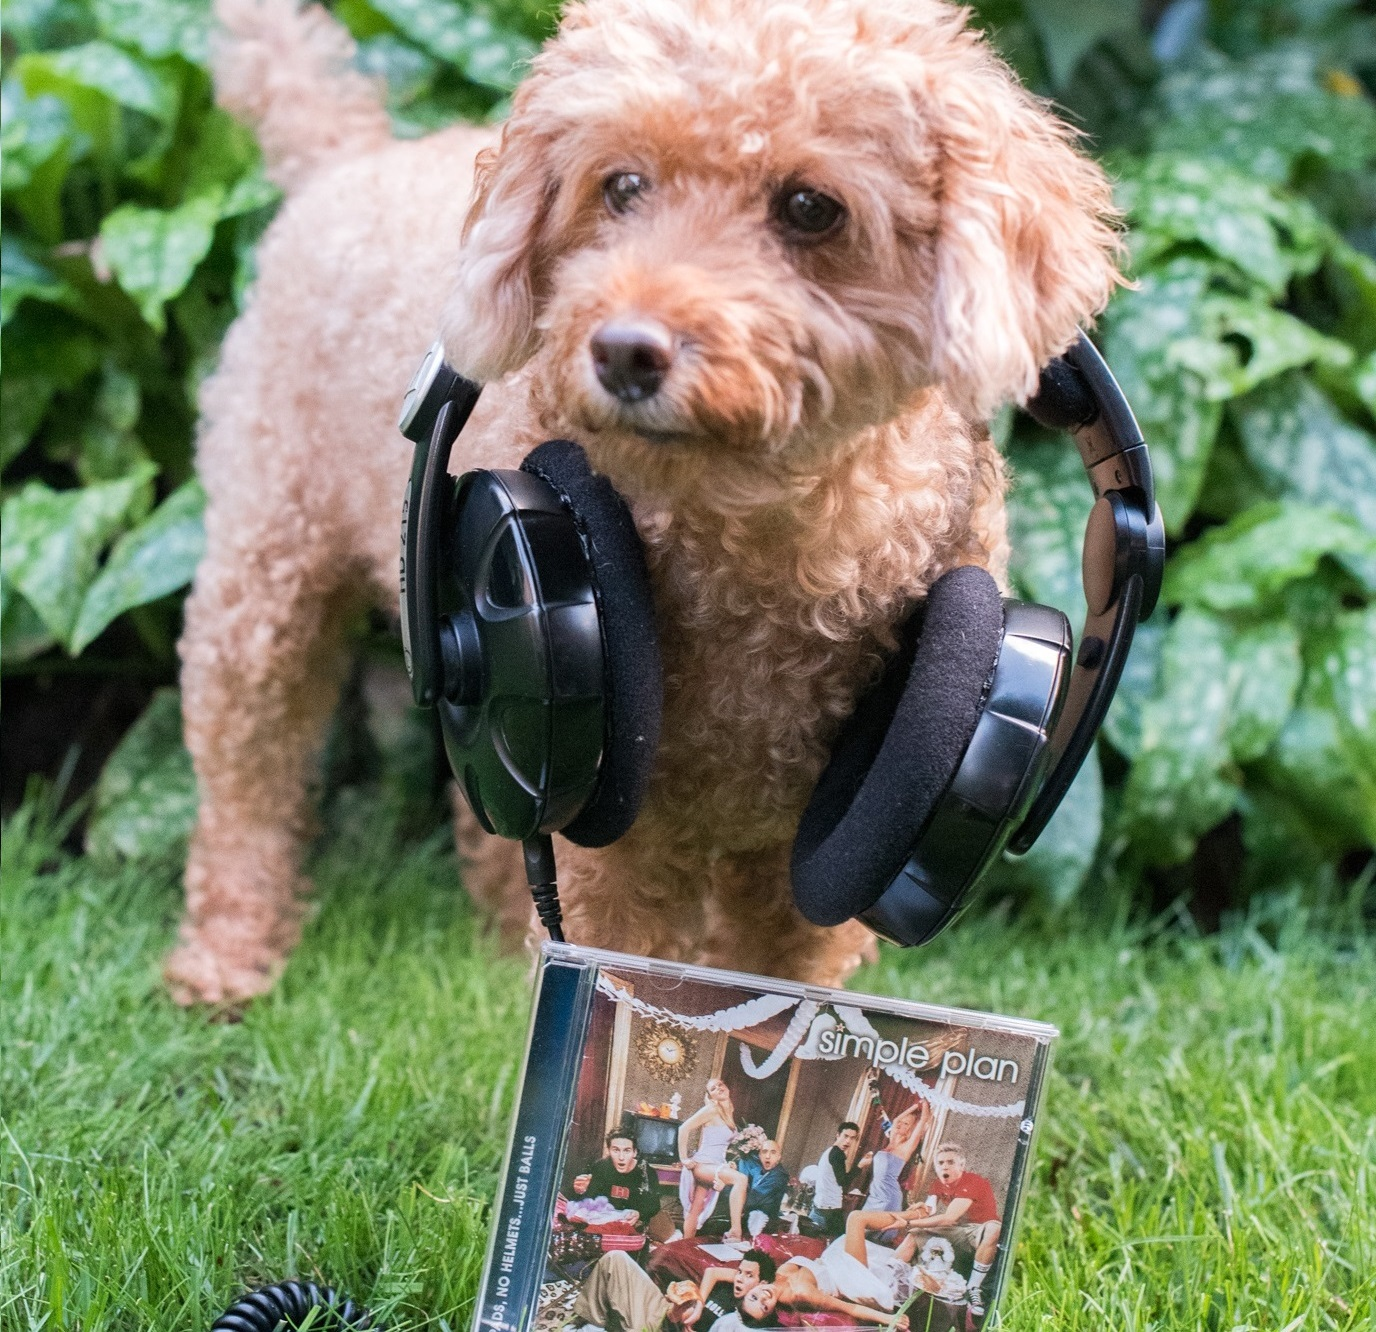
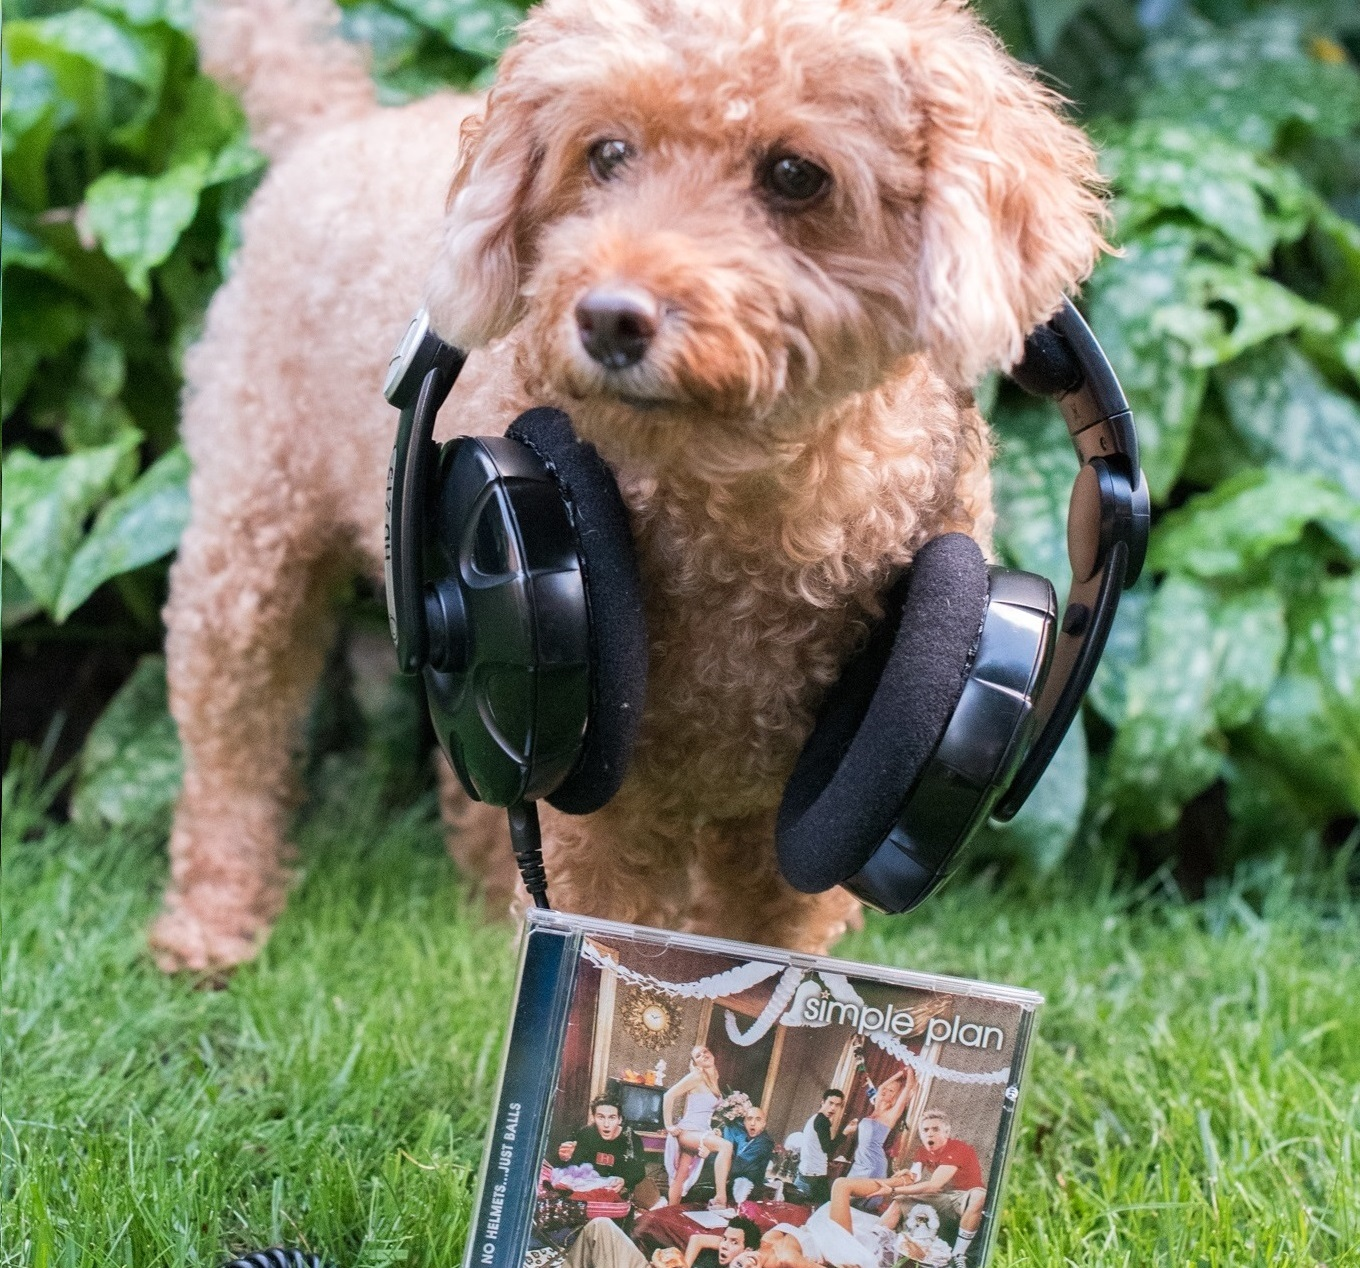
minor changes to html, more code cleanup

diff --git a/styles/style.css b/styles/style.css
@@ -184,18 +184,46 @@ h1,
 h2 {
   font-family: "Metal Mania";
   color: whitesmoke;
-  text-shadow: 1px 1px black, 3px 3px #DD0000;
-  padding: 0 5px; }
+  text-shadow: 1px 1px black, 3px 3px #DD0000; }
 
 h1 {
-  font-size: 3rem; }
+  font-size: 2.8rem; }
 
 h2 {
   font-size: 2.5rem; }
 
+h3 {
+  font-family: "Roboto";
+  color: whitesmoke;
+  font-size: 1.1rem;
+  font-weight: normal;
+  max-width: 90%;
+  margin-left: 5%; }
+
 p,
 label {
   font-family: "Roboto", "sans-serif"; }
+
+header {
+  height: 100vh;
+  text-align: center; }
+  header p {
+    font-size: 0.9rem;
+    color: whitesmoke;
+    padding-top: 1%; }
+  header i {
+    color: #DD0000; }
+  header .header-pic {
+    width: 45%;
+    margin: 1% auto 2.5%;
+    -webkit-box-shadow: 10px 10px #DD0000;
+    box-shadow: 10px 10px #DD0000;
+    border-radius: 15px; }
+    header .header-pic img {
+      border-radius: 15px;
+      border: 3px solid black; }
+  header h3 {
+    margin-bottom: 0.5%; }
 
 .question {
   height: 100vh;
@@ -217,7 +245,7 @@ label {
 fieldset {
   border: 3px solid black;
   background-color: whitesmoke;
-  margin-top: 10%;
+  margin-top: 5%;
   padding: 40px;
   -webkit-box-shadow: 10px 10px #DD0000;
   box-shadow: 10px 10px #DD0000;
@@ -321,7 +349,7 @@ footer {
   height: 100vh;
   text-align: center; }
   footer h2 {
-    margin: 1% 0 1.5%;
+    margin: 1% 2.5% 1.5%;
     max-width: 95%; }
   footer .results-title p {
     padding-top: 1%;
@@ -379,37 +407,13 @@ footer {
   margin-top: 3%; }
   .footer-bottom p {
     color: whitesmoke;
-    margin-bottom: 2%;
-    padding: 0 3px; }
+    max-width: 95%;
+    margin: 0 2.5% 1.25%; }
   .footer-bottom a {
     color: #DD0000; }
   .footer-bottom a:hover,
   .footer-bottom a:focus {
     border-bottom: 3px solid #DD0000; }
-
-.disappear {
-  display: none; }
-
-body {
-  background: url(../assets/music-notes.png); }
-
-header {
-  height: 100vh;
-  text-align: center; }
-  header p {
-    color: whitesmoke;
-    padding-top: 1%; }
-  header i {
-    color: #DD0000; }
-  header .header-pic {
-    width: 47.5%;
-    margin: 1% auto 2.5%;
-    -webkit-box-shadow: 10px 10px #DD0000;
-    box-shadow: 10px 10px #DD0000;
-    border-radius: 15px; }
-    header .header-pic img {
-      border-radius: 15px;
-      border: 3px solid black; }
 
 @media (max-width: 1200px) {
   .wrapper {
@@ -429,14 +433,14 @@ header {
   .wrapper {
     width: 100%; }
   p,
-  a {
+  a,
+  label {
     font-size: 0.9rem; }
   input[type=submit]:hover,
   input[type=submit]:focus {
     padding: 12px 20px; }
   h1 {
-    font-size: 2.2rem;
-    padding: 0 1% 2%; }
+    font-size: 2.2rem; }
   header p {
     padding: 2% 0; }
   header .header-pic {
@@ -475,3 +479,20 @@ header {
     box-shadow: 5px 5px #DD0000; }
   .footer-bottom input[type=submit] {
     margin-bottom: 5%; } }
+
+@media (max-width: 485px) {
+  h1 {
+    font-size: 1.8rem;
+    padding-bottom: 5%; }
+  header p {
+    padding-top: 8%; }
+  header input {
+    margin-top: 3%; }
+  h3 {
+    font-size: 0.95rem; } }
+
+.disappear {
+  display: none; }
+
+body {
+  background: url(../assets/music-notes.png); }

diff --git a/index.html b/index.html
@@ -21,6 +21,8 @@
             <img src="assets/barkley-header.jpg" alt="a red toy poodle named Barkley on a chair wearing headphones">
         </div>
 
+        <h3>Let a wise music-loving pup help you pick your album of the day!</h3>
+
         <label for="start" class="visuallyHidden"></label>
         <input type="submit" id="start" value="let's begin!"></input>
     </div>
@@ -104,7 +106,7 @@
         </div>
         
         <div class="footer-bottom">
-            <p>You can check out Barkley's Instagram page <a href="https://www.instagram.com/barkleythegroupie/" target="_blank"> here </a></p>
+            <p>You can check out Barkley's Instagram page <a href="https://www.instagram.com/barkleythegroupie/" target="_blank"> here.</a></p>
 
             <label for="reset" class="visuallyHidden"></label>
             <input type="submit" id="reset" value="let's go again!"></input>

diff --git a/styles/style.scss b/styles/style.scss
@@ -1,8 +1,10 @@
 @import "partials/setup";
 @import "partials/general-styles";
+@import "partials/header";
 @import "partials/questions";
 @import "partials/button";
 @import "partials/results-page";
+@import "partials/media-queries";
 
 .disappear {
     display: none;
@@ -10,28 +12,4 @@
 
 body {
     background: url(../assets/music-notes.png);
-    // background: rgb(20, 20, 20);
 }
-
-header {
-    height: 100vh;
-    text-align: center;
-    p {
-        color: $main-color;
-        padding-top: 1%;
-    }
-    i {
-        color: $accent;
-    }
-    .header-pic {
-        width: 47.5%;
-        margin: 1% auto 2.5%;
-        box-shadow: $pic-shadow;
-        border-radius: 15px;
-        img {
-            border-radius: 15px;
-            border: $border;
-        }
-    }
-}
-@import "partials/media-queries";

diff --git a/styles/partials/_media-queries.scss b/styles/partials/_media-queries.scss
@@ -27,7 +27,8 @@
     }
 
     p,
-    a {
+    a,
+    label {
         font-size: 0.9rem;
     }
 
@@ -39,7 +40,6 @@
     //HEADER
     h1 {
         font-size: 2.2rem;
-        padding: 0 1% 2%;
     }
     header p {
         padding: 2% 0;
@@ -88,5 +88,21 @@
         input[type=submit] {
             margin-bottom: 5%;
         }
+    }
+}
+
+@media (max-width: 485px) {
+    h1 {
+        font-size: 1.8rem;
+        padding-bottom: 5%;
+    }
+    header p {
+        padding-top: 8%;
+    }
+    header input {
+        margin-top: 3%;
+    }
+    h3 {
+        font-size: 0.95rem;
     }
 }

diff --git a/styles/partials/_header.scss b/styles/partials/_header.scss
@@ -1,0 +1,25 @@
+header {
+    height: 100vh;
+    text-align: center;
+    p {
+        font-size: 0.9rem;
+        color: $main-color;
+        padding-top: 1%;
+    }
+    i {
+        color: $accent;
+    }
+    .header-pic {
+        width: 45%;
+        margin: 1% auto 2.5%;
+        box-shadow: $pic-shadow;
+        border-radius: 15px;
+        img {
+            border-radius: 15px;
+            border: $border;
+        }
+    }
+    h3 {
+        margin-bottom: 0.5%;
+    }
+}

diff --git a/styles/partials/_results-page.scss b/styles/partials/_results-page.scss
@@ -2,7 +2,7 @@ footer {
     height: 100vh;
     text-align: center;
     h2 {
-        margin: 1% 0 1.5%;
+        margin: 1% 2.5% 1.5%;
         max-width: 95%;
     }
     .results-title p {
@@ -61,8 +61,8 @@ footer {
     margin-top: 3%;
     p {
         color: $main-color;
-        margin-bottom: 2%;
-        padding: 0 3px;
+        max-width: 95%;
+        margin: 0 2.5% 1.25%;
     }
     a {
         color: $accent;

diff --git a/styles/partials/_general-styles.scss b/styles/partials/_general-styles.scss
@@ -53,15 +53,23 @@ h2 {
     font-family: "Metal Mania";
     color: $main-color;
     text-shadow: $text-shadow;
-    padding: 0 5px;
 }
 
 h1 {
-    font-size: 3rem;
+    font-size: 2.8rem;
 }
 
 h2 {
     font-size: 2.5rem;
+}
+
+h3 {
+    font-family: "Roboto";
+    color: $main-color;
+    font-size: 1.1rem;
+    font-weight: normal;
+    max-width: 90%;
+    margin-left: 5%;
 }
 
 p,

diff --git a/styles/partials/_questions.scss b/styles/partials/_questions.scss
@@ -18,7 +18,7 @@
 fieldset {
     border: $border;
     background-color: $main-color;
-    margin-top: 10%;
+    margin-top: 5%;
     padding: 40px;
     box-shadow: $pic-shadow;
     border-radius: 15px;
